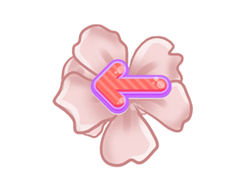
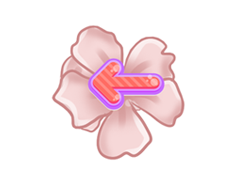
Redimension icone cherry back.

Changed region(s): [[0.196, 0.1081, 0.784, 0.9189]]

diff --git a/portfolio/src/styles/footer.scss b/portfolio/src/styles/footer.scss
@@ -2,7 +2,7 @@
     display: flex;
     justify-content: center;
     align-items: center;
-    padding-top: 60px;
+    padding-top: 130px;
     @media (max-width: 440px) {
         padding-top: 20px;
         @media (max-width: 370px) {
@@ -16,11 +16,10 @@
     justify-content: center;
     align-items: center;
         img {
-            width: 100%;
             object-fit: contain;
             cursor: pointer;
                     @media (max-width: 1700px) {
-                        width: 350px;
+                        width: 320px;
                             @media (max-width: 1500px) {
                                 width: 300px;
                                 @media (max-width: 1280px) {
